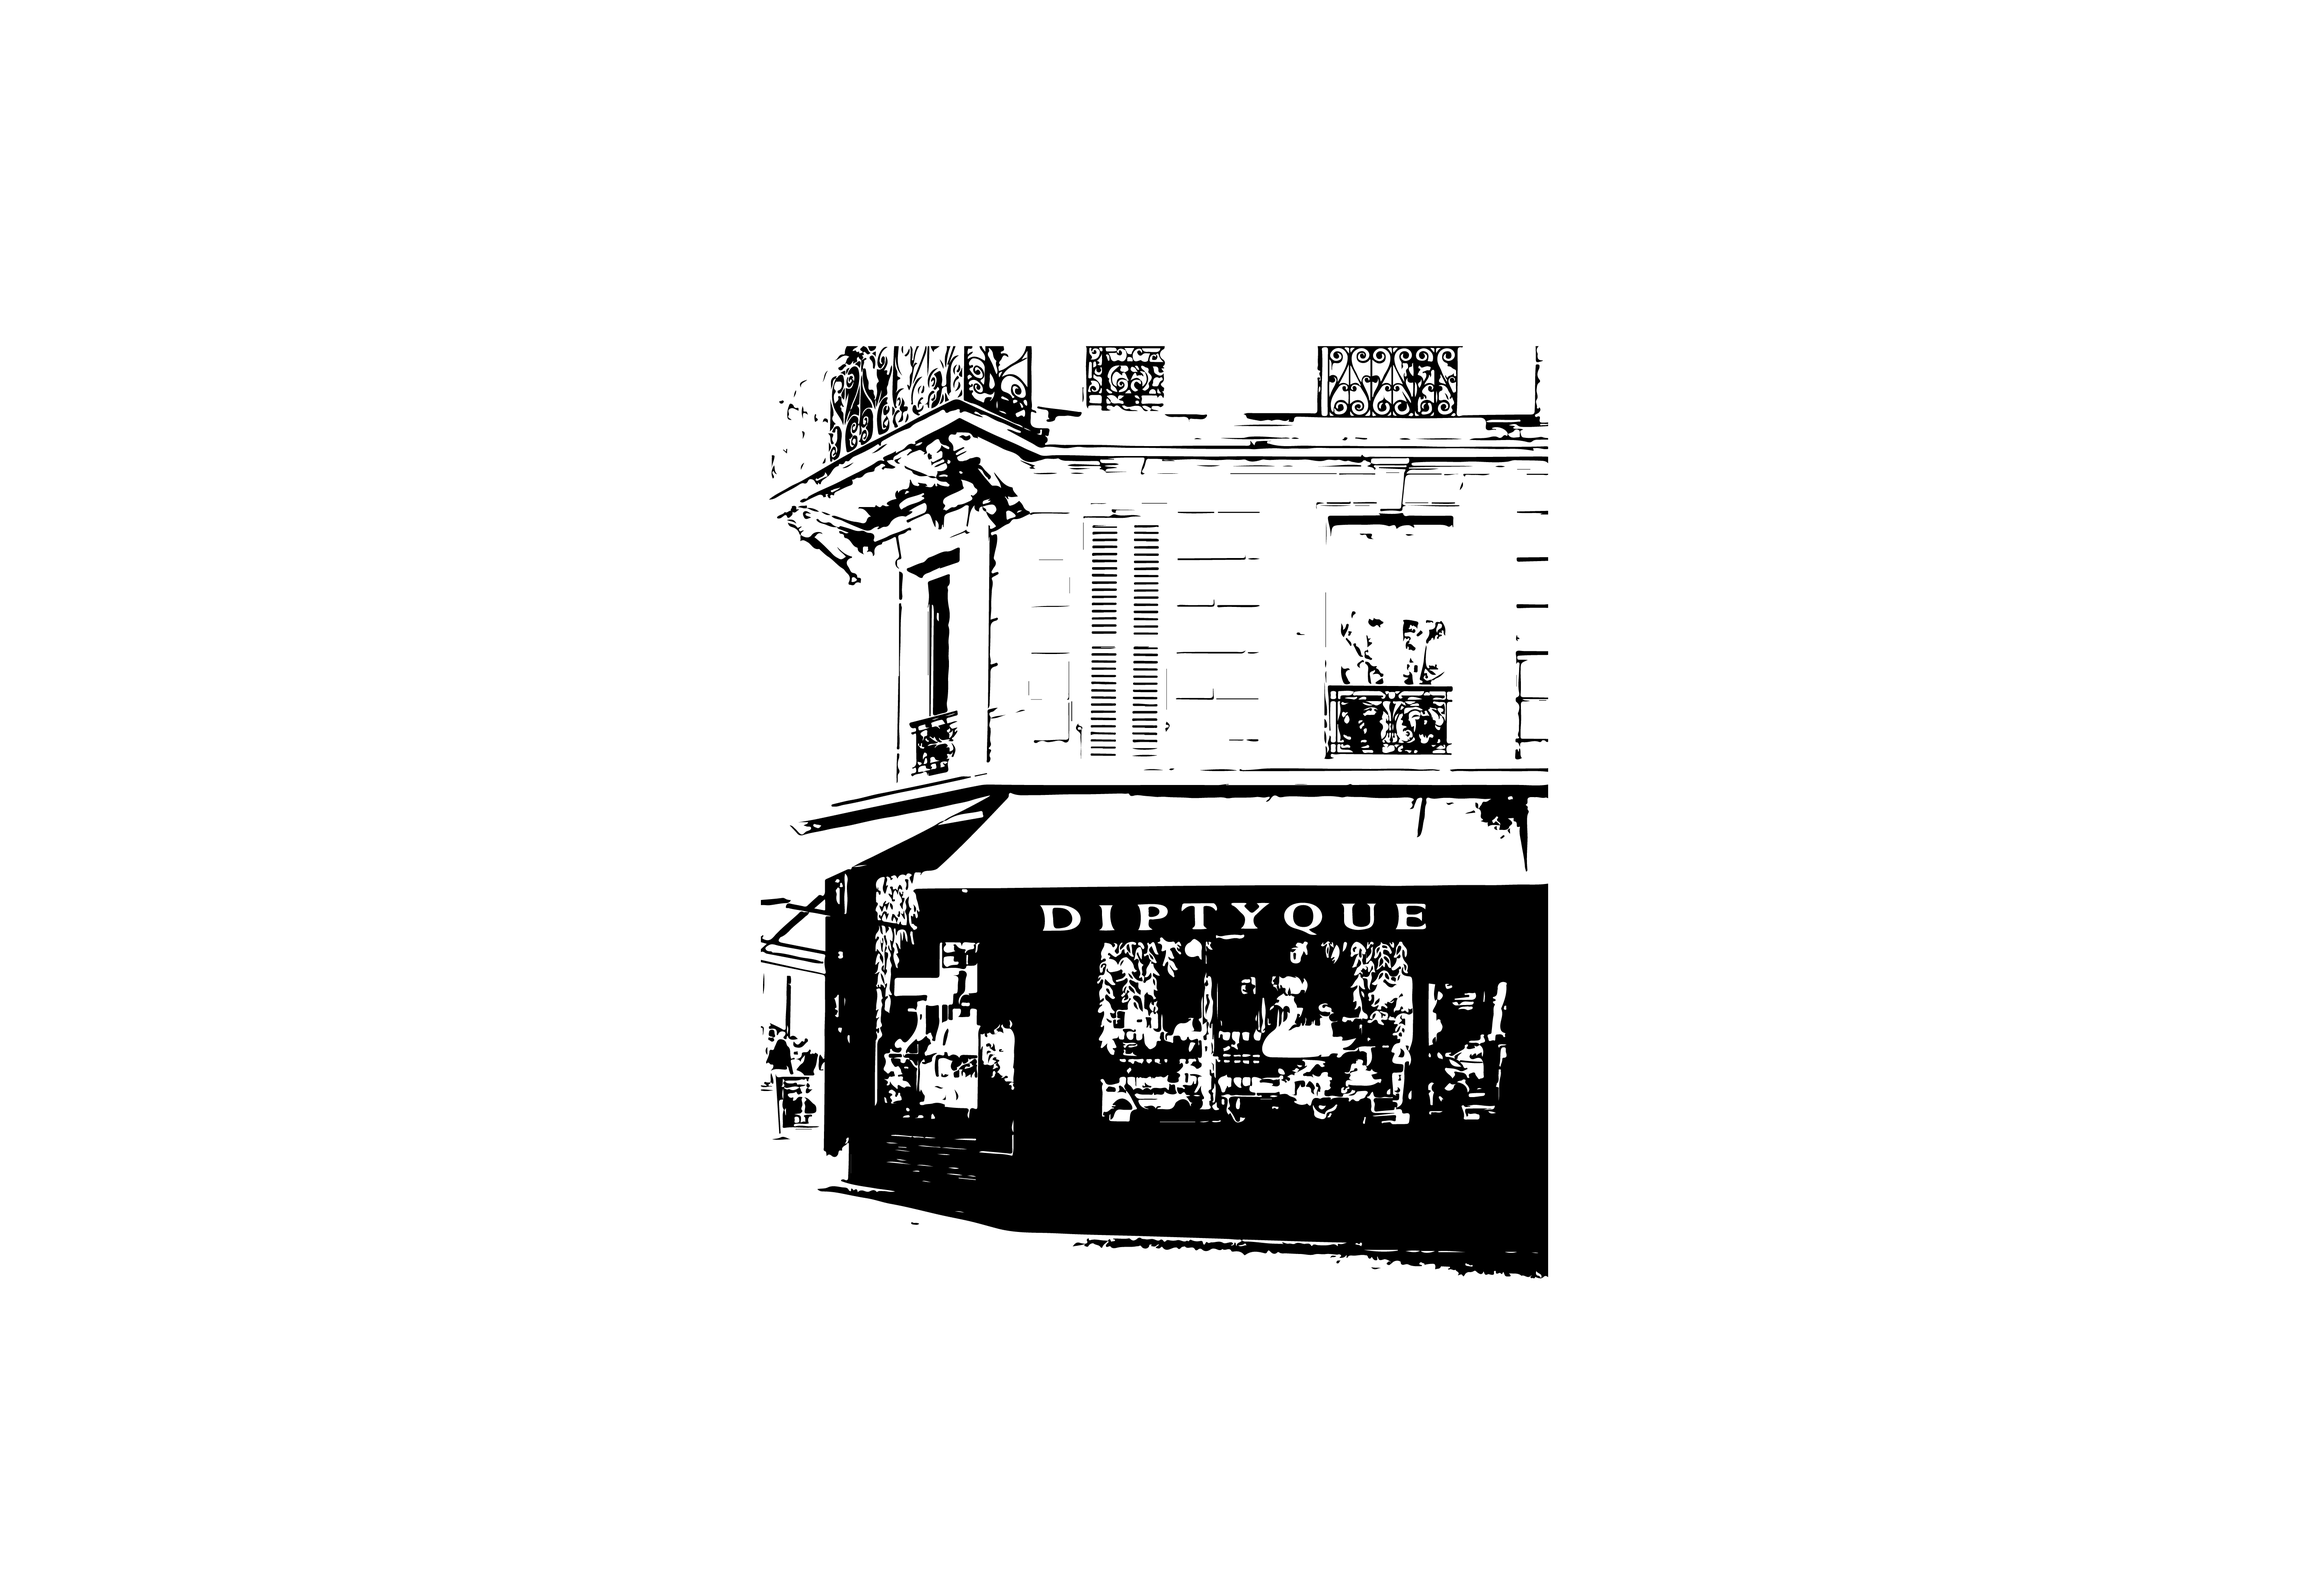
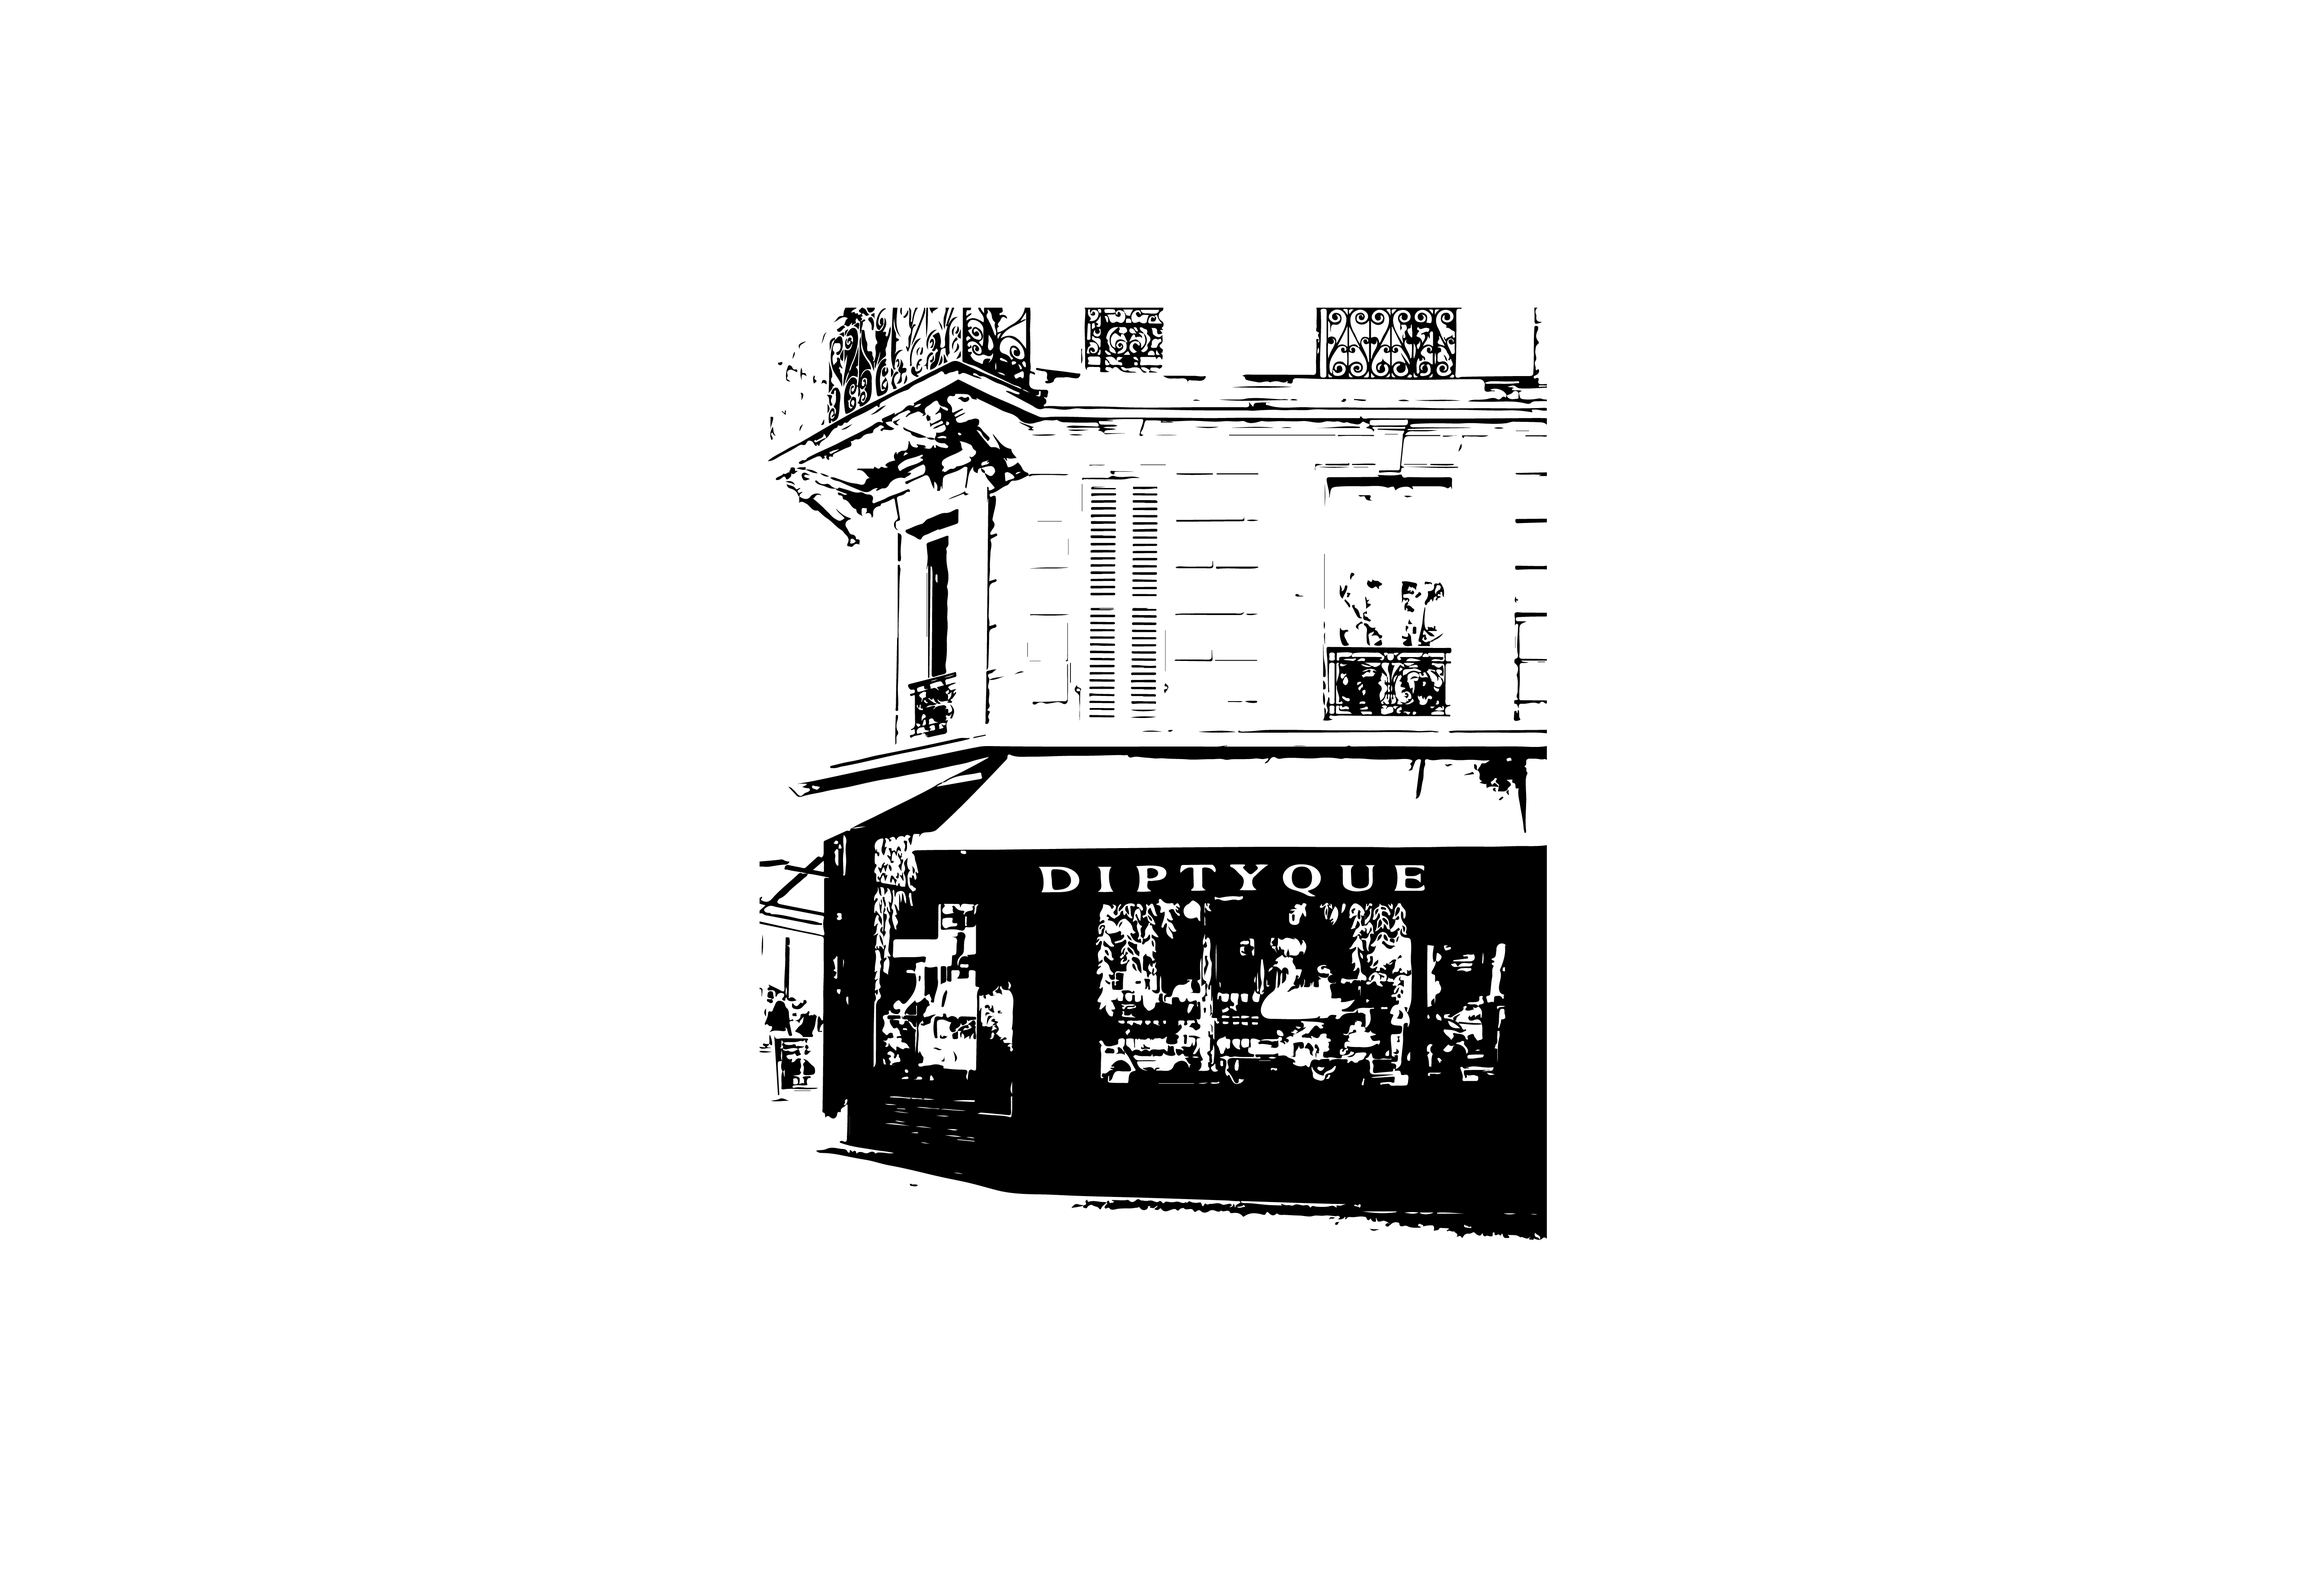
set

Changed region(s): [[0.3112, 0.1861, 0.6847, 0.8063]]

diff --git a/entries/spray1.html b/entries/spray1.html
@@ -9,10 +9,10 @@
       </header>
 
        <!-- Centered Image and Text -->
-       <div style="flex: 1; display: flex; flex-direction: column; align-items: center; justify-content: center; z-index: 1; margin-top: -30px;">
+       <div style="flex: 1; display: flex; flex-direction: column; align-items: center; justify-content: center; z-index: 1;">
         <img src="../images/34.png" alt="Centered Image" style="max-width: 80%; height: auto; margin-bottom: 10px;">
         <!-- Centered Text -->
-        <div style="text-align: center; font-size: 13pt; color: black; margin-top: -130px;">
+        <div style="text-align: center; font-size: 13pt; color: black; margin-top: -150px;">
             <strong>34 BOULEVARD SAINT GERMAIN</strong><br>
             In one gesture, the 34 Boulevard Saint-Germain room spray brings out the notes of Diptyque's signature scent.<br>
 The fresh, unconventional perfume of moss and blackcurrant leaves - floral notes heightened with wood and spices. Just a few sprays and the Maison's entire art of living is expressed. Creative, urbane.<br>

diff --git a/entries/spray2.html b/entries/spray2.html
@@ -9,10 +9,10 @@
       </header>
 
        <!-- Centered Image and Text -->
-       <div style="flex: 1; display: flex; flex-direction: column; align-items: center; justify-content: center; z-index: 1; margin-top: -30px;">
+       <div style="flex: 1; display: flex; flex-direction: column; align-items: center; justify-content: center; z-index: 1;">
         <img src="../images/aesop.png" alt="Centered Image" style="max-width: 80%; height: auto; margin-bottom: 10px;">
         <!-- Centered Text -->
-        <div style="text-align: center; font-size: 13pt; color: black; margin-top: -130px;">
+        <div style="text-align: center; font-size: 13pt; color: black; margin-top: -150px;">
             <strong>OLOUS</strong><br>
             A blend of citrus botanicals, balanced by breaking waves of Cedar and the refreshing spice of Cardamom.<br>
             <a href="https://www.aesop.com/us/p/home/room-sprays/olous-aromatique-room-spray/" style="font-size: 10pt; color: black; text-decoration: none; margin-top: 10px; display: inline-block;">GO SHOPPING</a>

diff --git a/entries/perfume1.html b/entries/perfume1.html
@@ -9,10 +9,10 @@
       </header>
 
       <!-- Centered Image and Text -->
-<div style="flex: 1; display: flex; flex-direction: column; align-items: center; justify-content: center; z-index: 1; margin-top: -30px;">
-  <img src="../images/IMG_0203.PNG" alt="Centered Image" style="max-width: 80%; height: auto; margin-bottom: 10px;">
-  <!-- Centered Text -->
-  <div style="text-align: center; font-size: 13pt; color: black; margin-top: -160px;">
+     <div style="flex: 1; display: flex; flex-direction: column; align-items: center; justify-content: center; z-index: 1;">
+       <img src="../images/IMG_0203.PNG" alt="Centered Image" style="max-width: 80%; height: auto; margin-bottom: 10px;">
+       <!-- Centered Text -->
+       <div style="text-align: center; font-size: 13pt; color: black; margin-top: -180px;">
       <strong>GABRIELLE</strong><br>
       Top notes: grapefruit, tangerine, black currant.<br>
       Middle notes: orange blossom, jasmine, ylang-ylang, lily of the valley, tuberose, pear.<br>

diff --git a/entries/candle3.html b/entries/candle3.html
@@ -9,10 +9,10 @@
     </header>
 
       <!-- Centered Image and Text -->
-      <div style="flex: 1; display: flex; flex-direction: column; align-items: center; justify-content: center; z-index: 1; margin-top: -30px;">
+      <div style="flex: 1; display: flex; flex-direction: column; align-items: center; justify-content: center; z-index: 1;">
         <img src="../images/IMG_0153.PNG" alt="Centered Image" style="max-width: 70%; height: auto; margin-bottom: 10px;">
         <!-- Centered Text -->
-        <div style="text-align: center; font-size: 13pt; color: black; margin-top: -50px;">
+        <div style="text-align: center; font-size: 13pt; color: black; margin-top: -70px;">
             <strong>FIR</strong><br>
             Hints of myrrh and incense absolute bring depth to the perfume’s head notes - Siberian pine and fir tree.<br>
             The Fir scented candle welcomes the olfactory strength and very essence of the Christmas tree.<br>

diff --git a/entries/candle2.html b/entries/candle2.html
@@ -9,10 +9,10 @@
       </header>
 
        <!-- Centered Image and Text -->
-       <div style="flex: 1; display: flex; flex-direction: column; align-items: center; justify-content: center; z-index: 1; margin-top: -30px;">
+       <div style="flex: 1; display: flex; flex-direction: column; align-items: center; justify-content: center; z-index: 1;">
         <img src="../images/IMG_0152.PNG" alt="Centered Image" style="max-width: 80%; height: auto; margin-bottom: 10px;">
         <!-- Centered Text -->
-        <div style="text-align: center; font-size: 13pt; color: black; margin-top: -140px;">
+        <div style="text-align: center; font-size: 13pt; color: black; margin-top: -160px;">
             <strong>BAIES</strong><br>
             The tangy coolness of a few fresh-picked blackcurrant berries. Lively, flowery rose accents.<br>
             The Baies scented candle speaks of harmony - a coming together of flower and fruit.<br>

diff --git a/entries/spray3.html b/entries/spray3.html
@@ -9,10 +9,10 @@
       </header>
 
        <!-- Centered Image and Text -->
-       <div style="flex: 1; display: flex; flex-direction: column; align-items: center; justify-content: center; z-index: 1; margin-top: -30px;">
+       <div style="flex: 1; display: flex; flex-direction: column; align-items: center; justify-content: center; z-index: 1;">
         <img src="../images/lalebo.png" alt="Centered Image" style="max-width: 80%; height: auto; margin-bottom: 10px;">
         <!-- Centered Text -->
-        <div style="text-align: center; font-size: 13pt; color: black; margin-top: -130px;">
+        <div style="text-align: center; font-size: 13pt; color: black; margin-top: -160px;">
             <strong>SANTAL 26</strong><br>
             It smells like being away from the hustle and bustle of the world. <br>
             An elegant moment of self-praise that comes from introspection and the depths of the soul.<br>

diff --git a/entries/perfume3.html b/entries/perfume3.html
@@ -9,10 +9,10 @@
       </header>
 
        <!-- Centered Image and Text -->
-       <div style="flex: 1; display: flex; flex-direction: column; align-items: center; justify-content: center; z-index: 1; margin-top: -30px;">
+       <div style="flex: 1; display: flex; flex-direction: column; align-items: center; justify-content: center; z-index: 1;">
         <img src="../images/IMG_0201.PNG" alt="Centered Image" style="max-width: 80%; height: auto; margin-bottom: 10px;">
         <!-- Centered Text -->
-        <div style="text-align: center; font-size: 13pt; color: black; margin-top: -160px;">
+        <div style="text-align: center; font-size: 13pt; color: black; margin-top: -180px;">
             <strong>SENS</strong><br>
             Top notes: bitter orange, orange blossom.<br>
             Middle notes: juniper berry.<br>

diff --git a/entries/perfume4.html b/entries/perfume4.html
@@ -9,10 +9,10 @@
       </header>
 
        <!-- Centered Image and Text -->
-       <div style="flex: 1; display: flex; flex-direction: column; align-items: center; justify-content: center; z-index: 1; margin-top: -30px;">
+       <div style="flex: 1; display: flex; flex-direction: column; align-items: center; justify-content: center; z-index: 1;">
         <img src="../images/IMG_0200.PNG" alt="Centered Image" style="max-width: 80%; height: auto; margin-bottom: 10px;">
         <!-- Centered Text -->
-        <div style="text-align: center; font-size: 13pt; color: black; margin-top: -160px;">
+        <div style="text-align: center; font-size: 13pt; color: black; margin-top: -180px;">
             <strong>SACRED WOOD</strong><br>
             Top notes: ambrette, carrot seed.<br>
         Middle notes: amyris, sandalwood.<br>

diff --git a/entries/perfume2.html b/entries/perfume2.html
@@ -9,10 +9,10 @@
       </header>
 
        <!-- Centered Image and Text -->
-       <div style="flex: 1; display: flex; flex-direction: column; align-items: center; justify-content: center; z-index: 1; margin-top: -30px;">
+       <div style="flex: 1; display: flex; flex-direction: column; align-items: center; justify-content: center; z-index: 1;">
         <img src="../images/IMG_0202.PNG" alt="Centered Image" style="max-width: 80%; height: auto; margin-bottom: 10px;">
         <!-- Centered Text -->
-        <div style="text-align: center; font-size: 13pt; color: black; margin-top: -160px;">
+        <div style="text-align: center; font-size: 13pt; color: black; margin-top: -180px;">
           <strong>CHLOE</strong><br>
           Top notes: peony, lychee, freesia.<br>
           Middle notes: rose petals, magnolia.<br>

diff --git a/entries/candle1.html b/entries/candle1.html
@@ -9,7 +9,7 @@
       </header>
         
         <!-- Centered Image and Text -->
-        <div style="flex: 1; display: flex; flex-direction: column; align-items: center; justify-content: center; z-index: 1; margin-top: -30px;">
+        <div style="flex: 1; display: flex; flex-direction: column; align-items: center; justify-content: center; z-index: 1;">
             <img src="../images/IMG_0144.PNG" alt="Centered Image" style="max-width: 80%; height: auto; margin-bottom: 10px;">
             <!-- Centered Text -->
             <div style="text-align: center; font-size: 13pt; color: black; margin-top: -160px;">
